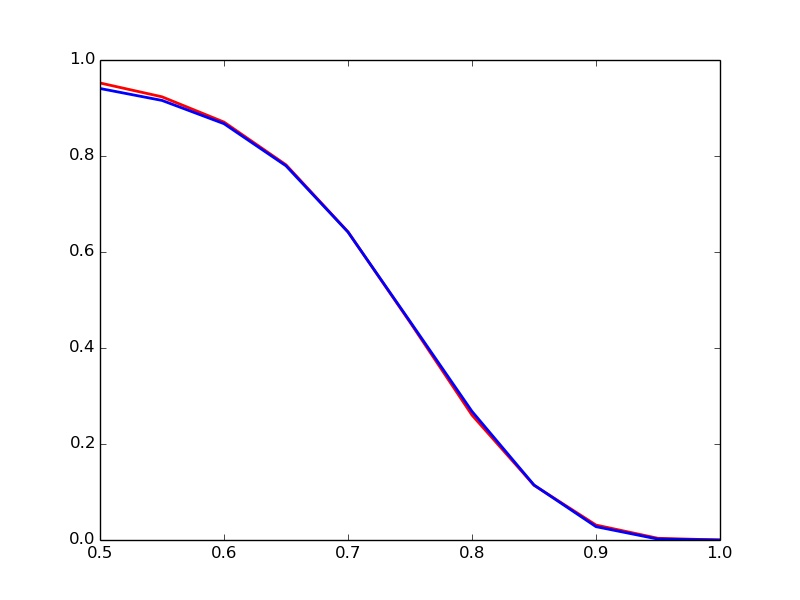
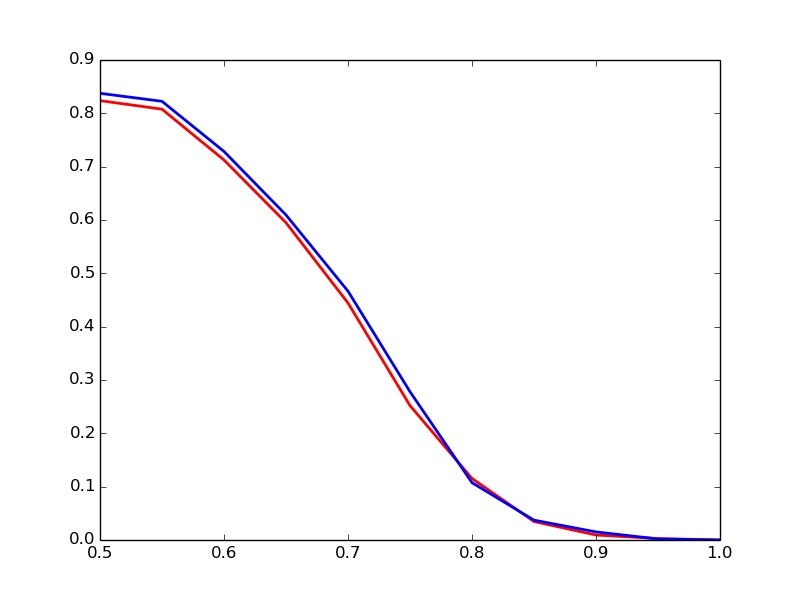
2016-11-25

diff --git a/lib/mylib/test.py b/lib/mylib/test.py
@@ -1,12 +1,3 @@
-# --------------------------------------------------------
-# Fast R-CNN
-# Copyright (c) 2015 Microsoft
-# Licensed under The MIT License [see LICENSE for details]
-# Written by Ross Girshick
-# --------------------------------------------------------
-
-"""Test a Fast R-CNN network on an imdb (image database)."""
-
 from fast_rcnn.config import cfg, get_output_dir
 from fast_rcnn.bbox_transform import clip_boxes, bbox_transform_inv
 import argparse
@@ -156,76 +147,14 @@ def im_detect(net, im, boxes=None):
     if cfg.TEST.HAS_RPN:
         assert len(im_scales) == 1, "Only single-image batch implemented"
         rois = net.blobs['rois'].data.copy()
+        print rois.shape
+        exit(1)
         # unscale back to raw image space
         boxes = rois[:, 1:5] / im_scales[0]
 
+    return boxes[:50]
 
-    if cfg.TEST.SVM:
-        # use the raw scores before softmax under the assumption they
-        # were trained as linear SVMs
-        scores = net.blobs['cls_score'].data
-    else:
-        # use softmax estimated probabilities
-        scores = blobs_out['cls_prob']
-
-    if cfg.TEST.BBOX_REG:
-        # Apply bounding-box regression deltas
-        box_deltas = blobs_out['bbox_pred']
-        pred_boxes = bbox_transform_inv(boxes, box_deltas)
-        pred_boxes = clip_boxes(pred_boxes, im.shape)
-    else:
-        # Simply repeat the boxes, once for each class
-        pred_boxes = np.tile(boxes, (1, scores.shape[1]))
-
-    if cfg.DEDUP_BOXES > 0 and not cfg.TEST.HAS_RPN:
-        # Map scores and predictions back to the original set of boxes
-        scores = scores[inv_index, :]
-        pred_boxes = pred_boxes[inv_index, :]
-
-    return scores, pred_boxes
-
-def vis_detections(im, class_name, dets, thresh=0.3):
-    """Visual debugging of detections."""
-    import matplotlib.pyplot as plt
-    im = im[:, :, (2, 1, 0)]
-    for i in xrange(np.minimum(10, dets.shape[0])):
-        bbox = dets[i, :4]
-        score = dets[i, -1]
-        if score > thresh:
-            plt.cla()
-            plt.imshow(im)
-            plt.gca().add_patch(
-                plt.Rectangle((bbox[0], bbox[1]),
-                              bbox[2] - bbox[0],
-                              bbox[3] - bbox[1], fill=False,
-                              edgecolor='g', linewidth=3)
-                )
-            plt.title('{}  {:.3f}'.format(class_name, score))
-            plt.show()
-
-def apply_nms(all_boxes, thresh):
-    """Apply non-maximum suppression to all predicted boxes output by the
-    test_net method.
-    """
-    num_classes = len(all_boxes)
-    num_images = len(all_boxes[0])
-    nms_boxes = [[[] for _ in xrange(num_images)]
-                 for _ in xrange(num_classes)]
-    for cls_ind in xrange(num_classes):
-        for im_ind in xrange(num_images):
-            dets = all_boxes[cls_ind][im_ind]
-            if dets == []:
-                continue
-            # CPU NMS is much faster than GPU NMS when the number of boxes
-            # is relative small (e.g., < 10k)
-            # TODO(rbg): autotune NMS dispatch
-            keep = nms(dets, thresh, force_cpu=True)
-            if len(keep) == 0:
-                continue
-            nms_boxes[cls_ind][im_ind] = dets[keep, :].copy()
-    return nms_boxes
-
-def test_net(net, imdb, max_per_image=100, thresh=0.5, vis=False, wrt=False):
+def test_rpn(net, imdb, max_per_image=100, thresh=0.5, vis=False, wrt=False):
     """Test a Fast R-CNN network on an image database."""
     num_images = len(imdb.image_index)
     # all detections are collected into:
@@ -262,58 +191,22 @@ def test_net(net, imdb, max_per_image=100, thresh=0.5, vis=False, wrt=False):
 
         im = cv2.imread(imdb.image_path_at(i))
         _t['im_detect'].tic()
-        scores, boxes = im_detect(net, im, box_proposals)
-        _t['im_detect'].toc()
-
-        _t['misc'].tic()
-        # skip j = 0, because it's the background class
-        for j in xrange(1, imdb.num_classes):
-            inds = np.where(scores[:, j] > thresh)[0]
-            cls_scores = scores[inds, j]
-            if cfg.TEST.AGONISTIC:
-                cls_boxes = boxes[inds, 4:8]
-            else:
-                cls_boxes = boxes[inds, j*4:(j+1)*4]
-            cls_dets = np.hstack((cls_boxes, cls_scores[:, np.newaxis])) \
-                .astype(np.float32, copy=False)
-            keep = nms(cls_dets, cfg.TEST.NMS)
-            cls_dets = cls_dets[keep, :]
-            if vis:
-                vis_detections(im, imdb.classes[j], cls_dets)
-            all_boxes[j][i] = cls_dets
-
-        # Limit to max_per_image detections *over all classes*
-        if max_per_image > 0:
-            image_scores = np.hstack([all_boxes[j][i][:, -1]
-                                      for j in xrange(1, imdb.num_classes)])
-            if len(image_scores) > max_per_image:
-                image_thresh = np.sort(image_scores)[-max_per_image]
-                for j in xrange(1, imdb.num_classes):
-                    keep = np.where(all_boxes[j][i][:, -1] >= image_thresh)[0]
-                    all_boxes[j][i] = all_boxes[j][i][keep, :]
-        _t['misc'].toc()
-
-        print 'im_detect: {:d}/{:d} {:.3f}s {:.3f}s' \
-              .format(i + 1, num_images, _t['im_detect'].average_time,
-                      _t['misc'].average_time)
+        rois_proposals = im_detect(net, im, box_proposals)
+        
+        
         #write result image
         if wrt:
             import copy
             result_im = copy.copy(im)
             savename = os.path.join(image_output_dir, os.path.basename(imdb.image_path_at(i)))
-            for j in xrange(1, imdb.num_classes):
-                result_dets = all_boxes[j][i]
-                for det in result_dets:
-                    bbox = det[:4]
-                    score = det[-1]
-                    if score > 0.3:
-                        cv2.rectangle(result_im, (bbox[0], bbox[1]), (bbox[2], bbox[3]), (0, 255, 0))
-                        cv2.putText(result_im, '{}: {:.3f}'.format(imdb.classes[j], score), (bbox[0], bbox[1]), cv2.FONT_HERSHEY_SIMPLEX, 0.3, (255, 255, 255))
+            for j in range(len(rois_proposals)):
+                box = rois_proposals[j]
+                cv2.rectangle(result_im, (box[0], box[1]), (box[2], box[3]), (0, 255, 0))
+                #cv2.putText(result_im, '{}: {:.3f}'.format(imdb.classes[j], score), (bbox[0], bbox[1]), cv2.FONT_HERSHEY_SIMPLEX, 0.3, (255, 255, 255))
             cv2.imwrite(savename, result_im)
+        
+        _t['im_detect'].toc()
 
-    det_file = os.path.join(output_dir, 'detections.pkl')
-    with open(det_file, 'wb') as f:
-        cPickle.dump(all_boxes, f, cPickle.HIGHEST_PROTOCOL)
-
-    print 'Evaluating detections'
-    imdb.evaluate_detections(all_boxes, output_dir)
+        print 'im_detect: {:d}/{:d} {:.3f}s, {:d} roi proposals' \
+              .format(i + 1, num_images, _t['im_detect'].average_time, len(rois_proposals))
+    print 'RPN Testing Finished!'

diff --git a/cmp_result/cmp.py b/cmp_result/cmp.py
@@ -59,8 +59,8 @@ def do_python_eval(resultType='old', thres=0.5):
     cachedir = os.path.join(devkit_path, 'annotations_cache')
     aps = []
     # The PASCAL VOC metric changed in 2010
-    use_07_metric = False
-    #use_07_metric = True if int(self._year) < 2010 else False
+    #use_07_metric = False
+    use_07_metric = True if int(year) < 2010 else False
 
     cls = 'pedestrian'
 
@@ -97,7 +97,7 @@ if __name__ == '__main__':
 	new_recalls, new_aps = get_recall(threshs, 'new')
 
 	plt.figure()
-	plt.plot(threshs, old_recalls, label="old result",color="red",linewidth=2)
-	plt.plot(threshs, new_recalls, label="new result",color="blue",linewidth=2)
+	plt.plot(threshs, old_aps, label="old result",color="red",linewidth=2)
+	plt.plot(threshs, new_aps, label="new result",color="blue",linewidth=2)
 	plt.xlim(0.5,1.0)
 	plt.savefig('recall curve.jpg')

diff --git a/tools/test_net.py b/tools/test_net.py
@@ -10,13 +10,16 @@
 """Test a Fast R-CNN network on an image database."""
 
 import _init_paths
+
 from fast_rcnn.test import test_net
+from mylib.test import test_rpn
 from fast_rcnn.config import cfg, cfg_from_file, cfg_from_list
 from datasets.factory import get_imdb
 import caffe
 import argparse
 import pprint
 import time, os, sys
+
 
 def parse_args():
     """
@@ -89,4 +92,5 @@ if __name__ == '__main__':
     if not cfg.TEST.HAS_RPN:
         imdb.set_proposal_method(cfg.TEST.PROPOSAL_METHOD)
 
-    test_net(net, imdb, max_per_image=args.max_per_image, vis=args.vis, wrt=args.wrt)
+    #test_net(net, imdb, max_per_image=args.max_per_image, vis=args.vis, wrt=args.wrt)
+    test_rpn(net, imdb, max_per_image=args.max_per_image, vis=args.vis, wrt=args.wrt)
